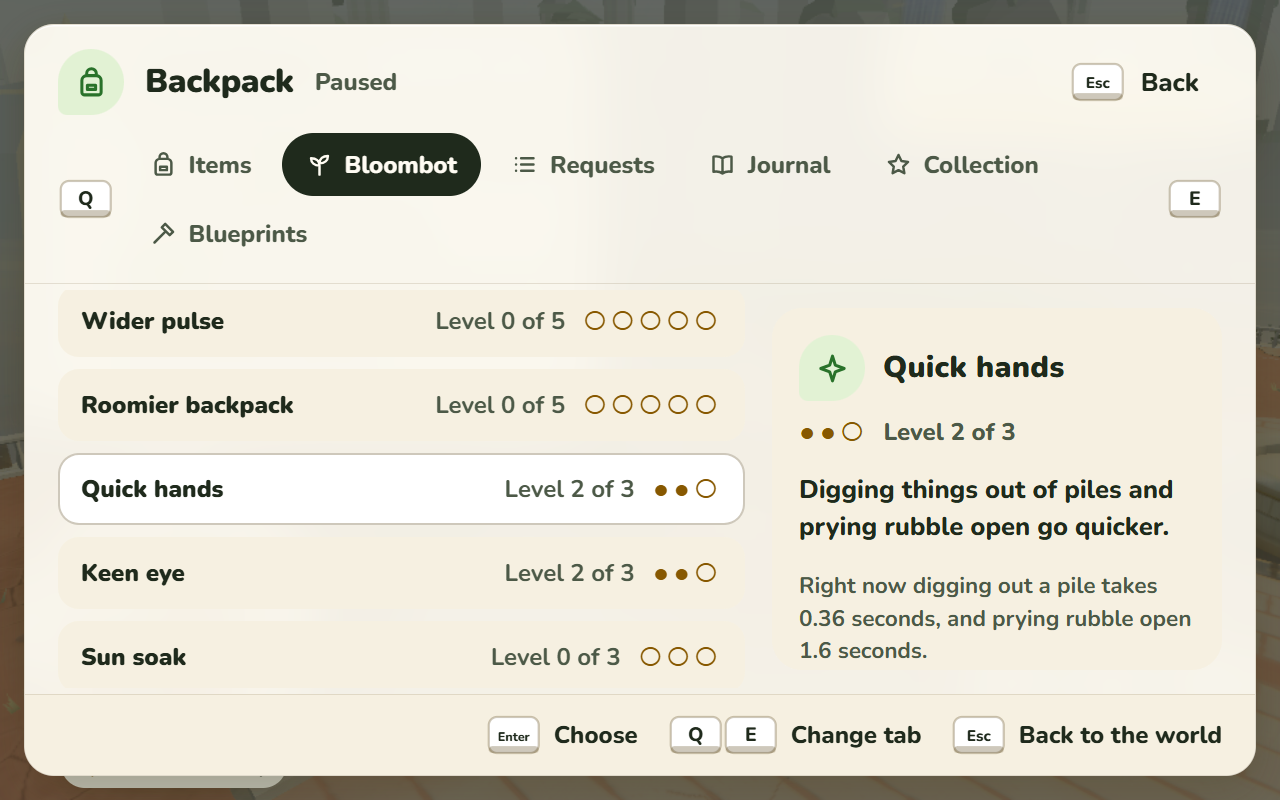
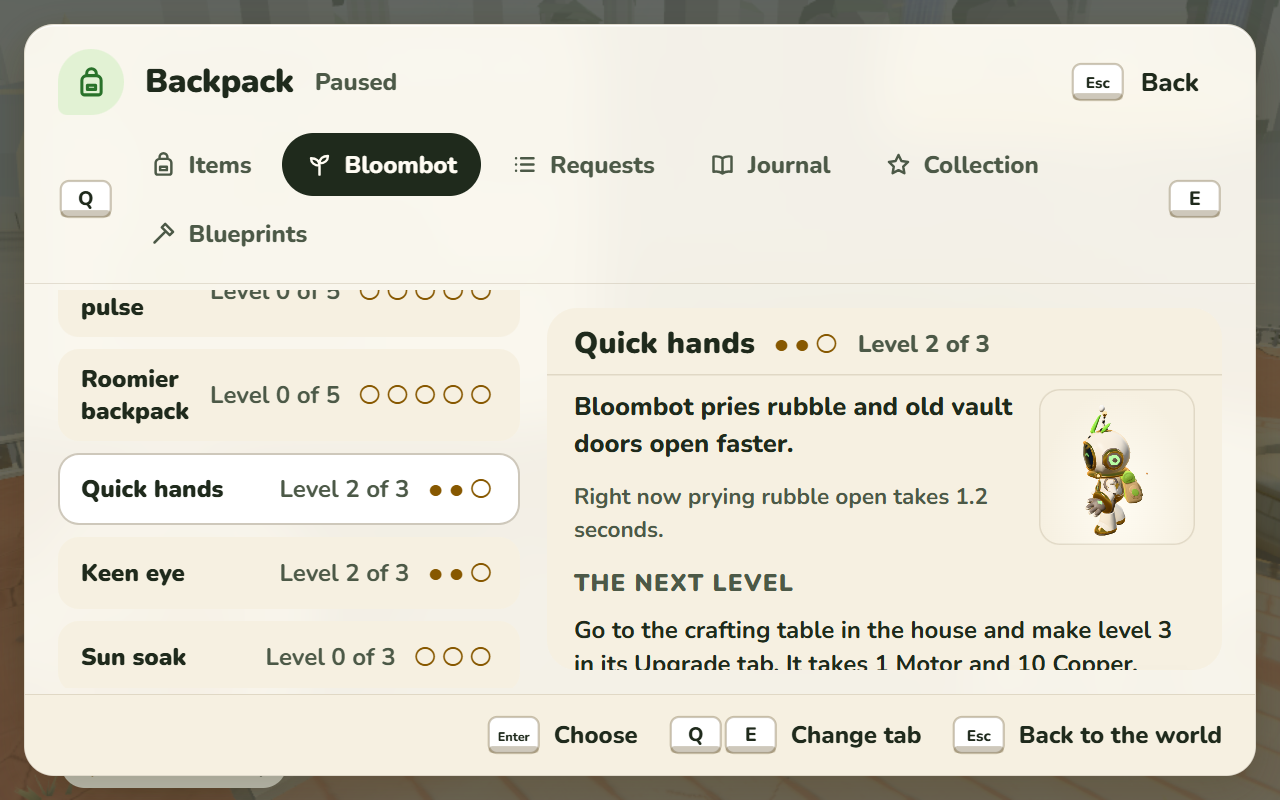
Quick hands is for prying only: rubble and vault doors, a fifth quicker a level
The owner's call (E25): Quick hands and Nimble hands both shortened digging,
which already sits on the 0.33 s floor, so Quick hands level 3 added about
0.03 s there. Now Quick hands shortens only pry holds (rubble, 2 s) and vault
doors (Pry II, 3 s), 20% a level: 1.6 / 1.2 / 0.8 s and 2.4 / 1.8 / 1.2 s.
Nimble hands stays the digging one.

Words: the crafting table says "Prying rubble and old vault doors open takes
less time"; the Bloombot page says "Bloombot pries rubble and old vault doors
open faster." with its own time now (and the vault door's once Pry II is
learned). Nimble hands' row shows the digging time.

diff --git a/tests/bloombot-new-upgrades.test.ts b/tests/bloombot-new-upgrades.test.ts
@@ -59,7 +59,7 @@ describe('#624: five new Bloombot upgrades in data', () => {
     sim.state.salvage!.research = { analysed: [], done: PROJECTS.map((p) => p.id), running: [], levels: {} };
     for (const m of ['scrap', 'seeds', 'copper', 'gears', 'wire', 'glassPane', 'batteryCell', 'motor', 'sunCell', 'sunstone'] as const) sim.inventory.addToStore(m, 200);
     const u = sim.upgrades;
-    const read = (id: string) => ({ quickHands: -u.salvageHold, keenEye: u.rippleRadius, sunSoak: u.sunSoak, lantern: u.lanternReach, luckyPulse: u.luckyChance })[id]!;
+    const read = (id: string) => ({ quickHands: -u.pryHold, keenEye: u.rippleRadius, sunSoak: u.sunSoak, lantern: u.lanternReach, luckyPulse: u.luckyChance })[id]!;
     for (const id of NEW) {
       const max = RESEARCH_UPGRADES.find((q) => q.id === id)!.levels.length;
       for (let l = 1; l <= max; l++) {
@@ -85,40 +85,41 @@ describe('#624: what each does', () => {
     expect(u.luckyChance).toBe(0);
   });
 
-  it('Quick hands: digging and prying take 10% less a level', () => {
-    expect([0, 1, 2, 3].map((l) => +at({ quickHands: l }).upgrades.pryHold.toFixed(3))).toEqual([2, 1.8, 1.6, 1.4]);
-    expect([0, 1, 2, 3].map((l) => +at({ quickHands: l }).upgrades.salvageHold.toFixed(3))).toEqual([0.6, 0.54, 0.48, 0.42]);
+  it('Quick hands: prying rubble and vault doors take a fifth less a level, so each level is felt', () => {
+    expect([0, 1, 2, 3].map((l) => +at({ quickHands: l }).upgrades.pryHold.toFixed(3))).toEqual([2, 1.6, 1.2, 0.8]);
+    expect([0, 1, 2, 3].map((l) => +at({ quickHands: l }).upgrades.vaultHold.toFixed(3))).toEqual([3, 2.4, 1.8, 1.2]);
   });
 
-  it('Quick hands stacks with Nimble hands from the park, in one place, and never below a third of a second', () => {
-    const stacked = [0, 1, 2, 3].map((l) => {
+  it('Quick hands leaves digging alone: Nimble hands from the park is the digging one (the owner, E25)', () => {
+    expect([0, 1, 2, 3].map((l) => at({ quickHands: l }).upgrades.salvageHold)).toEqual([0.6, 0.6, 0.6, 0.6]);
+    const dig = [0, 1, 2, 3].map((l) => {
       const sim = at({ quickHands: l });
       sim.state.progression.parkGrowth = 3; // Nimble hands: a quarter off digging
       return +sim.upgrades.salvageHold.toFixed(3);
     });
-    // 0.6 × 0.75 × (1, 0.9, 0.8, 0.7): 0.45, 0.405, 0.36, then 0.315 held up at the floor
-    expect(stacked).toEqual([0.45, 0.405, 0.36, RESEARCH.minHold]);
-    expect(RESEARCH.minHold).toBeCloseTo(1 / 3, 1);
-    // every level still does something somewhere: each stacked step is quicker than the last
-    for (let i = 1; i < stacked.length; i++) expect(stacked[i]).toBeLessThan(stacked[i - 1]);
+    expect(dig).toEqual([0.45, 0.45, 0.45, 0.45]);
     // the floor holds whatever the numbers: even with the levels pushed far past what can be bought
+    expect(RESEARCH.minHold).toBeCloseTo(1 / 3, 1);
     const silly = at({ quickHands: 20 });
-    silly.state.progression.parkGrowth = 3;
-    expect(silly.upgrades.salvageHold).toBe(RESEARCH.minHold);
     expect(silly.upgrades.pryHold).toBe(RESEARCH.minHold);
+    expect(silly.upgrades.vaultHold).toBe(RESEARCH.minHold);
   });
 
-  it('the game reads its holds from that one place, and the page shows the combined time', () => {
+  it('the game reads its holds from that one place, and each row shows its own time', () => {
     const sim = at({ quickHands: 3 });
     sim.state.progression.parkGrowth = 3;
     const rows = bloombotRows(sim);
     const quick = rows.find((r) => r.id === 'quickHands')!;
     const nimble = rows.find((r) => r.id === 'quick')!;
-    expect(quick.now).toBe('Right now digging out a pile takes 0.33 seconds, and prying rubble open 1.4 seconds.');
-    expect(nimble.now).toBe(quick.now);
-    expect(bannedIn(quick.now!)).toEqual([]);
-    expect(at({}).upgrades.salvageHold).toBe(SALVAGE.holdSeconds);
-    expect(bloombotRows(at({})).find((r) => r.id === 'quickHands')!.now).toBe('Right now digging out a pile takes 0.6 seconds, and prying rubble open 2 seconds.');
+    expect(quick.now).toBe('Right now prying rubble open takes 0.8 seconds.');
+    expect(nimble.now).toBe('Right now digging out a pile takes 0.45 seconds.');
+    expect(quick.does).toBe('Bloombot pries rubble and old vault doors open faster.');
+    for (const t of [quick.now!, nimble.now!, quick.does]) expect(bannedIn(t)).toEqual([]);
+    // once Bloombot can pry a vault door open (Pry II), the row says how long that takes too
+    sim.state.salvage!.abilities = ['pry'];
+    sim.state.salvage!.research!.done.push(sim.research.moveProject('pry')!.id);
+    expect(bloombotRows(sim).find((r) => r.id === 'quickHands')!.now).toBe('Right now prying rubble open takes 0.8 seconds, and an old vault door 1.2 seconds.');
+    expect(bloombotRows(at({})).find((r) => r.id === 'quickHands')!.now).toBe('Right now prying rubble open takes 2 seconds.');
   });
 
   it('Keen eye: the pulse lights up piles from 4 tiles further a level; at level 3 they show on the map', () => {

diff --git a/src/data/research.ts b/src/data/research.ts
@@ -101,7 +101,7 @@ export const RESEARCH = {
   pulseTilesPerLateLevel: 1,
   /** #623: the widest a pulse ever reaches, every bonus counted (Radiant's 7.1 and a tile) */
   pulseMaxRadius: 8.1,
-  /** #624: the shortest a salvage or pry hold ever gets (seconds), however Nimble hands and Quick hands stack */
+  /** #624: the shortest a salvage or pry hold ever gets (seconds), whatever shortens it */
   minHold: 0.33,
   /** #624 "Keen eye": at this level the piles and caches show on the minimap too */
   keenEyeMapLevel: 3,
@@ -121,7 +121,7 @@ export const RESEARCH_UPGRADES: ResearchUpgradeDef[] = [
   { id: 'backpack', branch: 'bloombot', name: 'Roomier backpack', each: '20 more in every stack', per: 20, needs: 'always', levels: [{ cost: { planks: 6, scrap: 10 } }, { cost: { planks: 10, clay: 10 } }, { cost: { planks: 14, gears: 10 } }, { cost: { motor: 2, sunstone: 8 } }, { cost: { motor: 3, sunCell: 3 } }] },
   // #624 (E25): five more for Bloombot, each on a system that was already there
   /** a share off how long Interact is held to dig out a pile or pry rubble (UpgradeSystem.salvageHold / pryHold) */
-  { id: 'quickHands', branch: 'bloombot', name: 'Quick hands', each: 'Digging out a pile and prying rubble take less time', per: 0.1, needs: 'always', levels: [{ cost: { gears: 4, scrap: 8 } }, { cost: { gears: 6, wire: 4 } }, { cost: { motor: 1, copper: 10 } }] },
+  { id: 'quickHands', branch: 'bloombot', name: 'Quick hands', each: 'Prying rubble and old vault doors open takes less time', per: 0.2, needs: 'always', levels: [{ cost: { gears: 4, scrap: 8 } }, { cost: { gears: 6, wire: 4 } }, { cost: { motor: 1, copper: 10 } }] },
   /** tiles added to the pulse's ripple (what it lights up) and to how far the piles the fountain wants glint */
   { id: 'keenEye', branch: 'bloombot', name: 'Keen eye', each: 'Each pulse lights up piles and hidden things from further off. At level 3 they show on the map too', per: 4, needs: 'always', levels: [{ cost: { glassPane: 2, copper: 4 } }, { cost: { glassPane: 4, wire: 4 } }, { cost: { glassPane: 6, sunstone: 4 } }] },
   /** charge a second back in full sun, standing still (times the sun's strength now) */
@@ -158,7 +158,7 @@ export const PROJECTS: ProjectDef[] = [
   { id: 'rb-pulse', branch: 'bloombot', name: 'Ripples', about: 'A pulse that carries a little further.', cost: { seeds: 16, glass: 6 }, days: 0.2, opens: { project: 'rb-efficiency' }, gives: { upgrade: 'pulseRadius' } },
   { id: 'rb-backpack', branch: 'bloombot', name: 'Stitched pockets', about: 'More room in every pocket of the backpack.', cost: { timber: 10, scrap: 10 }, days: 0.1, opens: { material: 'timber' }, gives: { upgrade: 'backpack' } },
   // #624 (E25)
-  { id: 'rb-hands', branch: 'bloombot', name: 'Oiled fingers', about: 'Hands that dig and pry without a fuss.', cost: { gears: 6, scrap: 8 }, days: 0.1, opens: { project: 'rb-sprint' }, gives: { upgrade: 'quickHands' } },
+  { id: 'rb-hands', branch: 'bloombot', name: 'Oiled fingers', about: 'Hands that pry things open without a fuss.', cost: { gears: 6, scrap: 8 }, days: 0.1, opens: { project: 'rb-sprint' }, gives: { upgrade: 'quickHands' } },
   { id: 'rb-eye', branch: 'bloombot', name: 'Polished lenses', about: 'Eyes that catch a glint from further off.', cost: { glass: 8, copper: 4 }, days: 0.15, opens: { material: 'glass' }, gives: { upgrade: 'keenEye' } },
   { id: 'rb-soak', branch: 'bloombot', name: 'Sun skin', about: 'A shell that drinks a little sunlight.', cost: { sunstone: 4, glass: 6 }, days: 0.2, opens: { material: 'sunstone' }, gives: { upgrade: 'sunSoak' } },
   { id: 'rb-lantern', branch: 'bloombot', name: 'A little lamp', about: 'A light of its own for dark streets.', cost: { glass: 6, copper: 6 }, days: 0.15, opens: { project: 'rb-eye' }, gives: { upgrade: 'lantern' } },

diff --git a/src/ui/BloombotPage.ts b/src/ui/BloombotPage.ts
@@ -63,7 +63,7 @@ const UPGRADE_DOES: Record<string, string> = {
   pulseRadius: 'Each pulse brings back more ground at once.',
   backpack: 'Bloombot can carry 20 more of each thing.',
   // #624
-  quickHands: 'Digging things out of piles and prying rubble open go quicker.',
+  quickHands: 'Bloombot pries rubble and old vault doors open faster.',
   keenEye: 'Each pulse lights up piles and hidden things from further away. At level 3 they show on the map too.',
   sunSoak: 'Standing still in the sun slowly charges Bloombot, so it can top up anywhere by day.',
   lantern: 'Bloombot carries its own light at night, so dark streets are easier to see.',
@@ -184,7 +184,7 @@ export function bloombotUpgradeRows(sim: Sim): BloombotRow[] {
       level,
       max,
       next: top ? undefined : u.each,
-      now: u.id === 'quickHands' ? holdNow(sim) : undefined,
+      now: u.id === 'quickHands' ? pryNow(sim) : undefined,
       how,
       where: top ? undefined : houseSpot(),
       part: UPGRADE_PART[u.id] ?? 'core',
@@ -208,7 +208,7 @@ export function parkRows(sim: Sim): BloombotRow[] {
       : isNext
         ? `Keep bringing the park back to life around the fountain. This grows at ${d.tiles} on the goal card's Park count, and it's at ${Math.min(n, d.tiles)} now.`
         : `Keep bringing the park back to life. This grows at ${d.tiles} on the goal card's Park count.`;
-    return { id: d.id, kind: 'park', name: d.name, does: d.does, state: have ? 'have' : isNext ? 'next' : 'later', level: Math.min(n, d.tiles), max: d.tiles, now: d.id === 'quick' ? holdNow(sim) : undefined, how, where: have ? undefined : fountainSpot(sim), part: d.part };
+    return { id: d.id, kind: 'park', name: d.name, does: d.does, state: have ? 'have' : isNext ? 'next' : 'later', level: Math.min(n, d.tiles), max: d.tiles, now: d.id === 'quick' ? digNow(sim) : undefined, how, where: have ? undefined : fountainSpot(sim), part: d.part };
   });
 }
 
@@ -277,10 +277,13 @@ export function stateWords(r: BloombotRow): string {
 /** Seconds, as the page says them: "0.42 seconds", "1.4 seconds", "2 seconds". */
 const secs = (n: number) => `${+n.toFixed(2)} second${n === 1 ? '' : 's'}`;
 
-/**
- * #624: how long digging and prying take now, with Nimble hands and Quick hands together (and the floor), for the
- * two rows that change it.
- */
-export function holdNow(sim: Sim): string {
-  return `Right now digging out a pile takes ${secs(sim.upgrades.salvageHold)}, and prying rubble open ${secs(sim.upgrades.pryHold)}.`;
+/** Nimble hands (the park): how long digging out a pile takes now. */
+export function digNow(sim: Sim): string {
+  return `Right now digging out a pile takes ${secs(sim.upgrades.salvageHold)}.`;
+}
+
+/** Quick hands: how long prying takes now (and a vault door, once Bloombot can pry one open). */
+export function pryNow(sim: Sim): string {
+  const vault = sim.research.moveLevel('pry') >= 2 ? `, and an old vault door ${secs(sim.upgrades.vaultHold)}` : '';
+  return `Right now prying rubble open takes ${secs(sim.upgrades.pryHold)}${vault}.`;
 }

diff --git a/src/gameplay/UpgradeSystem.ts b/src/gameplay/UpgradeSystem.ts
@@ -87,16 +87,17 @@ export class UpgradeSystem {
   private eff(id: string): number {
     return this.sim.research?.effect(id) ?? 0;
   }
-  /** Quick hands: what a salvage or pry hold takes, as a share of before (1 without it). */
+  /** Quick hands: what a pry hold (rubble, a vault door) takes, as a share of before (1 without it). Digging is Nimble hands'. */
   get holdFactor(): number {
     return 1 - this.eff('quickHands');
   }
   /**
    * The one place a hold's length is worked out (#624): seconds Interact is held to dig out a pile once. Nimble
-   * hands from the park (#622) and Quick hands from research multiply, and it never drops below RESEARCH.minHold.
+   * hands from the park (#622) shortens it; Quick hands is for prying only (the owner's call, E25), so the two never
+   * pile up on digging. It never drops below RESEARCH.minHold.
    */
   get salvageHold(): number {
-    return Math.max(RESEARCH.minHold, SALVAGE.holdSeconds * (this.sim.parkGrowth?.holdShare ?? 1) * this.holdFactor);
+    return Math.max(RESEARCH.minHold, SALVAGE.holdSeconds * (this.sim.parkGrowth?.holdShare ?? 1));
   }
   /** Seconds Interact is held to pry rubble open (Quick hands; never below RESEARCH.minHold either). */
   get pryHold(): number {

diff --git a/src/gameplay/ParkGrowth.ts b/src/gameplay/ParkGrowth.ts
@@ -45,7 +45,7 @@ export class ParkGrowth {
 
   /**
    * Nimble hands: what a salvage hold takes, as a share of before (1 before it). The hold itself is worked out in
-   * one place, `UpgradeSystem.salvageHold`, with Quick hands (#624) and a floor.
+   * one place, `UpgradeSystem.salvageHold`, with a floor (Quick hands is for prying only).
    */
   get holdShare(): number {
     return this.has('quick') ? T.holdFactor : 1;

diff --git a/tests/bloombot-page.test.ts b/tests/bloombot-page.test.ts
@@ -70,7 +70,7 @@ describe('#620: Bloombot\'s page', () => {
       ['pulseRadius', 5, 1],
       ['backpack', 5, 20],
       // #624
-      ['quickHands', 3, 0.1],
+      ['quickHands', 3, 0.2],
       ['keenEye', 3, 4],
       ['sunSoak', 3, 0.12],
       ['lantern', 2, 3],
